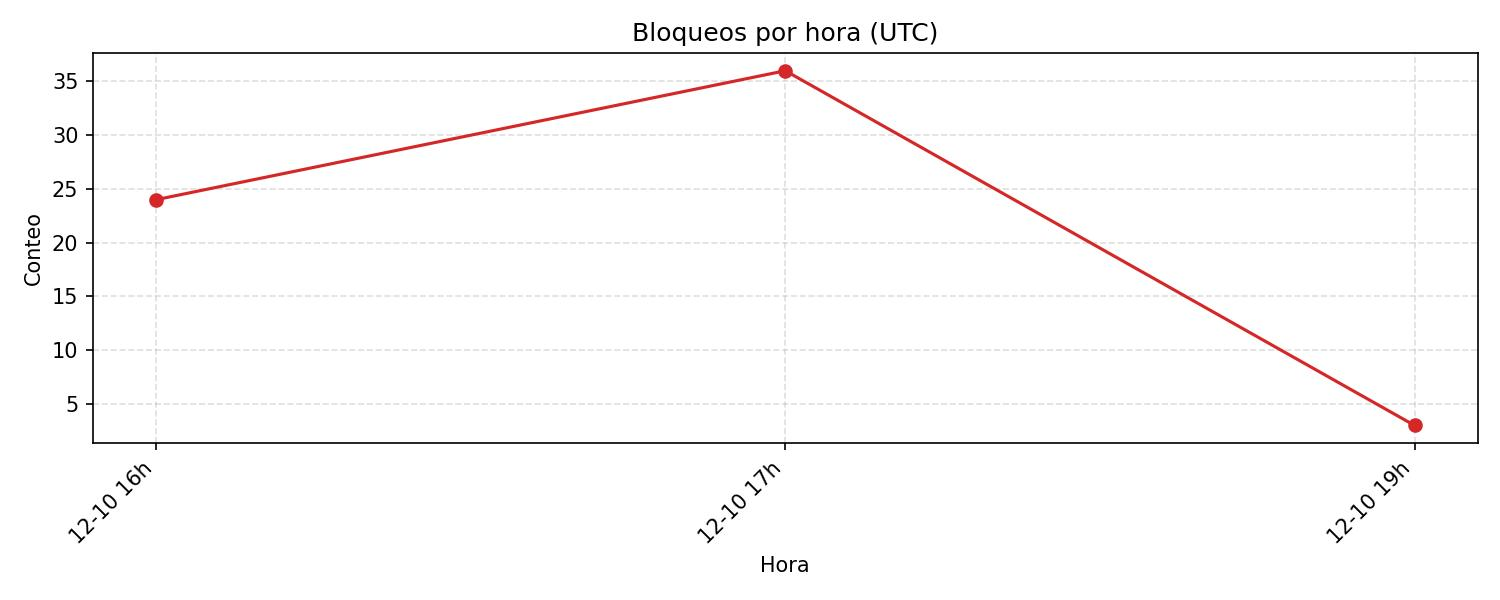
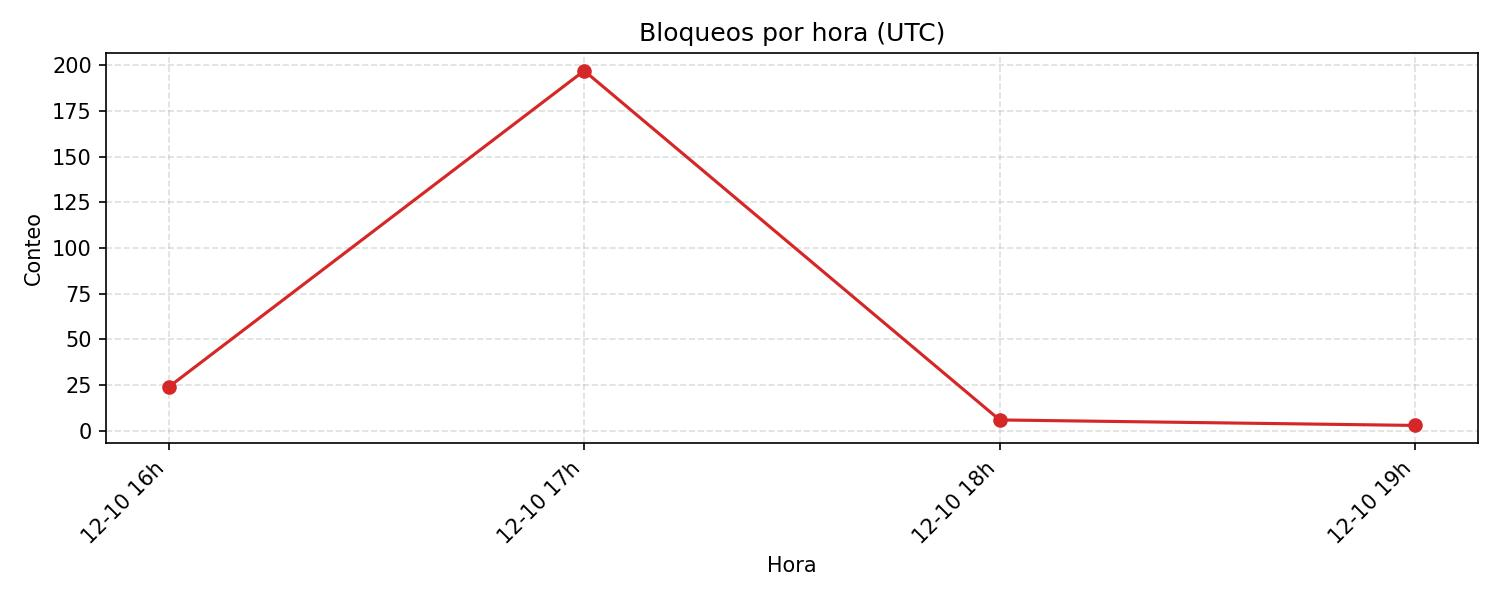
more

diff --git a/ufw_report.md b/ufw_report.md
@@ -2,94 +2,104 @@
 
 - Log: `/var/log/ufw.log`
 - Ventana: últimas 24.0 horas
-- Total de bloqueos: 63
-- IPs de origen únicas: 42
-- Puertos destino únicos: 44
+- Total de bloqueos: 230
+- IPs de origen únicas: 152
+- Puertos destino únicos: 175
 
 ## Top puertos destino
-| Puerto destino | Conteo |
-| --- | ---: |
-| 44489 | 6 |
-| 8333 | 4 |
-| 44532 | 4 |
-| 45034 | 3 |
-| 56664 | 3 |
-| 2375 | 2 |
-| 62082 | 2 |
-| 56726 | 2 |
-| 44499 | 2 |
-| 52311 | 1 |
-| 7574 | 1 |
-| 23 | 1 |
-| 8081 | 1 |
-| 31926 | 1 |
-| 31478 | 1 |
+| # | Puerto destino | Conteo | % |
+| ---: | --- | ---: | ---: |
+| 1 | `8333` | 17 | 7.4% |
+| 2 | `23` | 9 | 3.9% |
+| 3 | `44489` | 6 | 2.6% |
+| 4 | `443` | 6 | 2.6% |
+| 5 | `44532` | 4 | 1.7% |
+| 6 | `45034` | 3 | 1.3% |
+| 7 | `56664` | 3 | 1.3% |
+| 8 | `8081` | 2 | 0.9% |
+| 9 | `5061` | 2 | 0.9% |
+| 10 | `2375` | 2 | 0.9% |
+| 11 | `62082` | 2 | 0.9% |
+| 12 | `56726` | 2 | 0.9% |
+| 13 | `162` | 2 | 0.9% |
+| 14 | `44499` | 2 | 0.9% |
+| 15 | `53` | 2 | 0.9% |
 
 ## Top IPs origen
-| IP origen | Conteo |
-| --- | ---: |
-| 151.101.218.73 | 6 |
-| 184.31.2.80 | 5 |
-| 185.133.35.14 | 4 |
-| 79.124.62.230 | 3 |
-| 54.224.145.4 | 3 |
-| 185.133.35.13 | 3 |
-| 194.180.49.70 | 2 |
-| 17.57.144.152 | 2 |
-| 100.24.10.103 | 2 |
-| 85.217.149.13 | 1 |
-| 120.85.117.185 | 1 |
-| 59.127.12.31 | 1 |
-| 193.34.213.150 | 1 |
-| 206.168.34.128 | 1 |
-| 23.94.31.42 | 1 |
+| # | IP origen | Conteo | % |
+| ---: | --- | ---: | ---: |
+| 1 | `194.180.49.70` | 16 | 7.0% |
+| 2 | `216.180.246.43` | 8 | 3.5% |
+| 3 | `79.124.62.230` | 7 | 3.0% |
+| 4 | `151.101.218.73` | 6 | 2.6% |
+| 5 | `147.229.8.240` | 5 | 2.2% |
+| 6 | `184.31.2.80` | 5 | 2.2% |
+| 7 | `109.236.61.34` | 5 | 2.2% |
+| 8 | `185.133.35.14` | 4 | 1.7% |
+| 9 | `85.217.149.12` | 4 | 1.7% |
+| 10 | `103.99.170.132` | 4 | 1.7% |
+| 11 | `54.224.145.4` | 3 | 1.3% |
+| 12 | `185.133.35.13` | 3 | 1.3% |
+| 13 | `149.50.103.48` | 3 | 1.3% |
+| 14 | `79.124.62.126` | 3 | 1.3% |
+| 15 | `85.217.149.26` | 3 | 1.3% |
 
 ## Top IP origen -> puerto destino
-| IP origen -> puerto | Conteo |
-| --- | ---: |
-| 151.101.218.73 -> 44489 | 6 |
-| 185.133.35.14 -> 44532 | 4 |
-| 54.224.145.4 -> 45034 | 3 |
-| 184.31.2.80 -> 56664 | 3 |
-| 17.57.144.152 -> 62082 | 2 |
-| 100.24.10.103 -> 8333 | 2 |
-| 184.31.2.80 -> 56726 | 2 |
-| 185.133.35.13 -> 44499 | 2 |
-| 85.217.149.13 -> 52311 | 1 |
-| 120.85.117.185 -> 7574 | 1 |
-| 59.127.12.31 -> 23 | 1 |
-| 193.34.213.150 -> 8081 | 1 |
-| 206.168.34.128 -> 31926 | 1 |
-| 79.124.62.230 -> 31478 | 1 |
-| 23.94.31.42 -> 5061 | 1 |
+| # | IP origen -> puerto | Conteo | % |
+| ---: | --- | ---: | ---: |
+| 1 | `151.101.218.73` -> `44489` | 6 | 2.6% |
+| 2 | `147.229.8.240` -> `8333` | 5 | 2.2% |
+| 3 | `185.133.35.14` -> `44532` | 4 | 1.7% |
+| 4 | `103.99.170.132` -> `8333` | 4 | 1.7% |
+| 5 | `54.224.145.4` -> `45034` | 3 | 1.3% |
+| 6 | `184.31.2.80` -> `56664` | 3 | 1.3% |
+| 7 | `17.57.144.152` -> `62082` | 2 | 0.9% |
+| 8 | `100.24.10.103` -> `8333` | 2 | 0.9% |
+| 9 | `184.31.2.80` -> `56726` | 2 | 0.9% |
+| 10 | `185.133.35.13` -> `44499` | 2 | 0.9% |
+| 11 | `95.93.214.23` -> `23` | 2 | 0.9% |
+| 12 | `103.99.170.131` -> `8333` | 2 | 0.9% |
+| 13 | `109.236.61.34` -> `8092` | 2 | 0.9% |
+| 14 | `185.244.104.2` -> `443` | 2 | 0.9% |
+| 15 | `85.217.149.13` -> `52311` | 1 | 0.4% |
 
 ## Bloqueos por hora (UTC)
-| Hora | Conteo |
-| --- | ---: |
-| 2025-12-10 16:00:00:00 | 24 |
-| 2025-12-10 17:00:00:00 | 36 |
-| 2025-12-10 19:00:00:00 | 3 |
+| Hora (UTC) | Conteo | % |
+| :--- | ---: | ---: |
+| 2025-12-10 16:00:00:00 | 24 | 10.4% |
+| 2025-12-10 17:00:00:00 | 197 | 85.7% |
+| 2025-12-10 18:00:00:00 | 6 | 2.6% |
+| 2025-12-10 19:00:00:00 | 3 | 1.3% |
 
 ## Geolocalización (máx 15 IPs)
-| IP origen | Conteo | Ubicación |
-| --- | ---: | --- |
-| 151.101.218.73 | 6 | Argentina / Buenos Aires F.D. / Buenos Aires / Fastly, Inc. |
-| 184.31.2.80 | 5 | Argentina / Buenos Aires F.D. / Buenos Aires / Akamai Technologies, Inc. |
-| 185.133.35.14 | 4 | Brazil / São Paulo / Casa Verde / Linked Store Brasil Criacao E Desenvol De Software |
-| 79.124.62.230 | 3 | Seychelles / La Rivière Anglaise / Victoria / Internet Solutions & Innovations LTD |
-| 54.224.145.4 | 3 | United States / Virginia / Ashburn / AWS EC2 (us-east-1) |
-| 185.133.35.13 | 3 | Brazil / São Paulo / Casa Verde / Linked Store Brasil Criacao E Desenvol De Software |
-| 194.180.49.70 | 2 | Germany / Bavaria / Berngau / HostSlick |
-| 17.57.144.152 | 2 | United States / California / Cupertino / Apple Inc |
-| 100.24.10.103 | 2 | United States / Virginia / Ashburn / AWS EC2 (us-east-1) |
-| 85.217.149.13 | 1 | United States / New York / New York / Modat B.V |
-| 120.85.117.185 | 1 | China / Guangdong / Guangzhou |
-| 59.127.12.31 | 1 | Taiwan / Pingtung / Pingtung City / Chunghwa Telecom Co. Ltd. |
-| 193.34.213.150 | 1 | Poland / Mazovia / Warsaw / SKYTECHNOLOGY |
-| 206.168.34.128 | 1 | United States / Illinois / Chicago / Censys, Inc. |
-| 23.94.31.42 | 1 | United States / New York / Buffalo |
+| # | IP origen | Conteo | % | Ubicación | Red / sospecha |
+| ---: | --- | ---: | ---: | --- | --- |
+| 1 | `194.180.49.70` | 16 | 20.3% | Germany / Bavaria / Berngau / HostSlick | Sin señal aparente |
+| 2 | `216.180.246.43` | 8 | 10.1% | France / Île-de-France / Massy | Sin señal aparente |
+| 3 | `79.124.62.230` | 7 | 8.9% | Seychelles / La Rivière Anglaise / Victoria / Internet Solutions & Innovations LTD | Sin señal aparente |
+| 4 | `151.101.218.73` | 6 | 7.6% | Argentina / Buenos Aires F.D. / Buenos Aires / Fastly, Inc. | CDN/Edge (fastly) |
+| 5 | `147.229.8.240` | 5 | 6.3% | Czechia / South Moravian / Tišnov / VUTBR | Sin señal aparente |
+| 6 | `184.31.2.80` | 5 | 6.3% | Argentina / Buenos Aires F.D. / Buenos Aires / Akamai Technologies, Inc. | CDN/Edge (akamai) |
+| 7 | `109.236.61.34` | 5 | 6.3% | The Netherlands / North Holland / Amsterdam / ColocationX Ltd | Hosting/Cloud (colo) |
+| 8 | `185.133.35.14` | 4 | 5.1% | Brazil / São Paulo / Casa Verde / Linked Store Brasil Criacao E Desenvol De Software | Sin señal aparente |
+| 9 | `85.217.149.12` | 4 | 5.1% | United States / New York / New York / Modat B.V | Sin señal aparente |
+| 10 | `103.99.170.132` | 4 | 5.1% | United States / California / San Jose / WIZ K K | Sin señal aparente |
+| 11 | `54.224.145.4` | 3 | 3.8% | United States / Virginia / Ashburn / AWS EC2 (us-east-1) | Hosting/Cloud (aws) |
+| 12 | `185.133.35.13` | 3 | 3.8% | Brazil / São Paulo / Casa Verde / Linked Store Brasil Criacao E Desenvol De Software | Sin señal aparente |
+| 13 | `149.50.103.48` | 3 | 3.8% | Poland / Mazovia / Warsaw / Meverywhere sp.zo.o | Sin señal aparente |
+| 14 | `79.124.62.126` | 3 | 3.8% | Seychelles / La Rivière Anglaise / Victoria / Internet Solutions & Innovations LTD | Sin señal aparente |
+| 15 | `85.217.149.26` | 3 | 3.8% | United States / New York / New York / Modat B.V | Sin señal aparente |
+
+## Sospecha de VPN/Proxy/Hosting (heurística)
+| # | IP origen | Conteo | % | Sospecha | Ubicación |
+| ---: | --- | ---: | ---: | --- | --- |
+| 1 | `151.101.218.73` | 6 | 31.6% | CDN/Edge (fastly) | Argentina / Buenos Aires F.D. / Buenos Aires / Fastly, Inc. |
+| 2 | `184.31.2.80` | 5 | 26.3% | CDN/Edge (akamai) | Argentina / Buenos Aires F.D. / Buenos Aires / Akamai Technologies, Inc. |
+| 3 | `109.236.61.34` | 5 | 26.3% | Hosting/Cloud (colo) | The Netherlands / North Holland / Amsterdam / ColocationX Ltd |
+| 4 | `54.224.145.4` | 3 | 15.8% | Hosting/Cloud (aws) | United States / Virginia / Ashburn / AWS EC2 (us-east-1) |
 
 ## Gráficos
 ![Top puertos destino](ufw_plots/ufw_top_ports.jpg)
 ![Top IPs origen](ufw_plots/ufw_top_ips.jpg)
 ![Bloqueos por hora (UTC)](ufw_plots/ufw_hourly.jpg)
+![Mapa de bloqueos](ufw_plots/ufw_geo_map.jpg)
